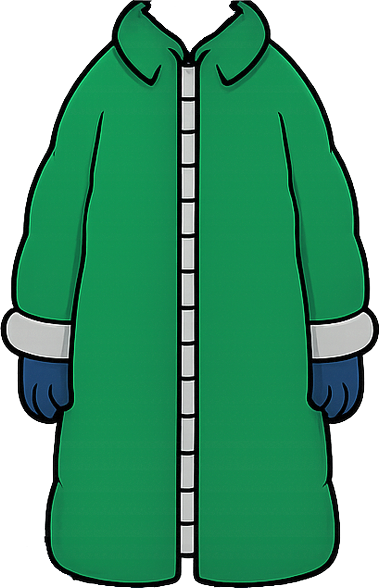
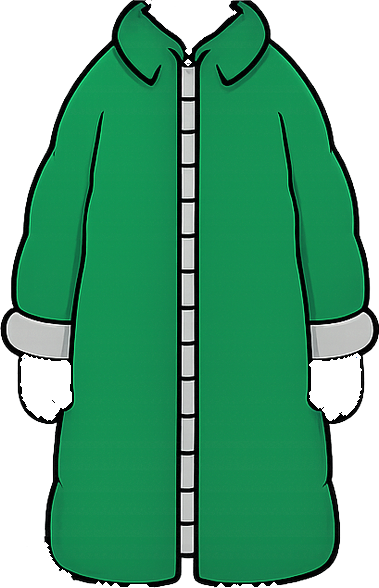
feat: donut season wheel, maple leaf, fix coat/shirt hand artifacts, calibrate cap/shorts/coat

diff --git a/src/App.tsx b/src/App.tsx
@@ -229,7 +229,7 @@ const ITEMS: ClothingItem[] = [
     thumbnail: layerShorts,
     closetThumbnail: closetShorts,
     closetHeight: 'calc(551px * 0.22)',
-    defaultAdjustment: { x: 4, y: 55, scale: 0.85, rotate: 0 },
+    defaultAdjustment: { x: 9, y: 96, scale: 0.85, rotate: 0 },
   },
   // Baseball cap — head slot
   {
@@ -241,7 +241,7 @@ const ITEMS: ClothingItem[] = [
     thumbnail: layerCap,
     closetThumbnail: closetCap,
     closetHeight: 'calc(551px * 0.15)',
-    defaultAdjustment: { x: 40, y: -42, scale: 1.15, rotate: 0 },
+    defaultAdjustment: { x: 30, y: -26, scale: 1.15, rotate: 0 },
   },
   // Winter coat — torso slot
   {
@@ -253,7 +253,7 @@ const ITEMS: ClothingItem[] = [
     thumbnail: layerCoatWinter,
     closetThumbnail: closetCoatWinter,
     closetHeight: 'calc(551px * 0.30)',
-    defaultAdjustment: { x: 13, y: 6, scale: 1.10, rotate: 0 },
+    defaultAdjustment: { x: 13, y: 32, scale: 1.10, rotate: 0 },
   },
 ]
 
@@ -1196,9 +1196,9 @@ type Season = 'summer' | 'autumn' | 'night'
 
 // ── Season Wheel ───────────────────────────────────────────────────────────────
 
-function SunIcon() {
+function SunIcon({ size = 22 }: { size?: number }) {
   return (
-    <svg width="22" height="22" viewBox="0 0 24 24">
+    <svg width={size} height={size} viewBox="0 0 24 24">
       <circle cx="12" cy="12" r="5" fill="#FFD700" />
       {[0, 45, 90, 135, 180, 225, 270, 315].map(deg => (
         <line
@@ -1216,21 +1216,25 @@ function SunIcon() {
   )
 }
 
-function LeafIcon() {
+function LeafIcon({ size = 22 }: { size?: number }) {
   return (
-    <svg width="22" height="22" viewBox="0 0 24 24">
-      <path d="M12 3 C6 3 3 8 3 13 C3 18 7 21 12 21 C17 21 21 18 21 13 C21 8 18 3 12 3 Z" fill="#E8640A" />
-      <path d="M7 18 C8 14 10 10 12 3" stroke="#C0440A" strokeWidth="1.5" fill="none" strokeLinecap="round" />
-      <path d="M12 3 C14 8 16 13 16 18" stroke="#C0440A" strokeWidth="1" fill="none" strokeLinecap="round" />
-      <path d="M9 11 C10 12 14 12 15 11" stroke="#C0440A" strokeWidth="1" fill="none" strokeLinecap="round" />
-      <path d="M12 21 L12 23" stroke="#8B4513" strokeWidth="2" strokeLinecap="round" />
+    <svg width={size} height={size} viewBox="0 0 24 24">
+      {/* Maple leaf shape */}
+      <path d="M12 2 L13.5 6 L17 5 L15 8.5 L19 9 L16 11 L18 14.5 L14.5 13 L14 17 L12 15 L10 17 L9.5 13 L6 14.5 L8 11 L5 9 L9 8.5 L7 5 L10.5 6 Z"
+        fill="#D2580A" />
+      {/* Stem */}
+      <line x1="12" y1="17" x2="12" y2="22" stroke="#8B4513" strokeWidth="1.8" strokeLinecap="round"/>
+      {/* Vein highlights */}
+      <line x1="12" y1="15" x2="8" y2="11" stroke="#E87020" strokeWidth="0.8" opacity="0.6"/>
+      <line x1="12" y1="15" x2="16" y2="11" stroke="#E87020" strokeWidth="0.8" opacity="0.6"/>
+      <line x1="12" y1="10" x2="12" y2="3" stroke="#E87020" strokeWidth="0.8" opacity="0.6"/>
     </svg>
   )
 }
 
-function MoonIcon() {
+function MoonIcon({ size = 22 }: { size?: number }) {
   return (
-    <svg width="22" height="22" viewBox="0 0 24 24">
+    <svg width={size} height={size} viewBox="0 0 24 24">
       <path d="M21 12.79A9 9 0 1 1 11.21 3 7 7 0 0 0 21 12.79z" fill="#C8D8FF" />
       <circle cx="16" cy="8" r="1" fill="white" opacity={0.6} />
       <circle cx="14" cy="14" r="0.7" fill="white" opacity={0.5} />
@@ -1240,61 +1244,65 @@ function MoonIcon() {
 
 const SEASON_COLORS: Record<Season, string> = {
   summer: '#FFD700',
-  autumn: '#E8640A',
-  night:  '#C8D8FF',
+  autumn: '#D2580A',
+  night:  '#8BB8FF',
 }
 
-interface SeasonBtnProps {
-  season: Season
-  current: Season
-  icon: React.ReactNode
-  onClick: (s: Season) => void
+const DONUT_R = 38   // ring radius
+const BTN_R = 14     // icon button radius
+
+// Positions: summer at top (-90°), autumn at bottom-left (150°), night at bottom-right (30°)
+const SEASON_POSITIONS: Record<Season, { angle: number }> = {
+  summer: { angle: -90 },
+  autumn: { angle: 150 },
+  night:  { angle: 30 },
 }
 
-function SeasonBtn({ season, current, icon, onClick }: SeasonBtnProps) {
-  const isActive = season === current
+function SeasonWheel({ season, onSelect }: { season: Season; onSelect: (s: Season) => void }) {
+  const size = (DONUT_R + BTN_R + 6) * 2
+  const cx = size / 2
+  const cy = size / 2
+
   return (
-    <button
-      onClick={() => onClick(season)}
-      title={season.charAt(0).toUpperCase() + season.slice(1)}
-      style={{
-        width: 36,
-        height: 36,
-        borderRadius: '50%',
-        background: isActive ? 'rgba(255,255,255,0.25)' : 'rgba(0,0,0,0.5)',
-        border: isActive ? `2px solid ${SEASON_COLORS[season]}` : '2px solid transparent',
-        backdropFilter: 'blur(4px)',
-        display: 'flex',
-        alignItems: 'center',
-        justifyContent: 'center',
-        cursor: 'pointer',
-        padding: 0,
-        transition: 'background 0.2s, border-color 0.2s',
-        flexShrink: 0,
-      }}
-    >
-      {icon}
-    </button>
-  )
-}
+    <div style={{ position: 'absolute', bottom: 16, left: 16, zIndex: 20 }}>
+      <svg width={size} height={size}>
+        {/* Donut ring */}
+        <circle cx={cx} cy={cy} r={DONUT_R} fill="none"
+          stroke="rgba(255,255,255,0.15)" strokeWidth="3" />
 
-interface SeasonWheelProps {
-  season: Season
-  onSelect: (s: Season) => void
-}
+        {/* Season buttons on the ring */}
+        {(Object.entries(SEASON_POSITIONS) as [Season, { angle: number }][]).map(([s, { angle }]) => {
+          const rad = (angle * Math.PI) / 180
+          const bx = cx + DONUT_R * Math.cos(rad)
+          const by = cy + DONUT_R * Math.sin(rad)
+          const active = season === s
+          const color = SEASON_COLORS[s]
+          return (
+            <g key={s} onClick={() => onSelect(s)} style={{ cursor: 'pointer' }}>
+              <circle cx={bx} cy={by} r={BTN_R}
+                fill={active ? 'rgba(255,255,255,0.25)' : 'rgba(0,0,0,0.55)'}
+                stroke={active ? color : 'rgba(255,255,255,0.2)'}
+                strokeWidth={active ? 2.5 : 1}
+              />
+              <foreignObject x={bx - 11} y={by - 11} width={22} height={22}
+                style={{ pointerEvents: 'none' }}>
+                <div style={{ display: 'flex', alignItems: 'center', justifyContent: 'center', width: 22, height: 22, opacity: active ? 1 : 0.6 }}>
+                  {s === 'summer' ? <SunIcon /> : s === 'autumn' ? <LeafIcon /> : <MoonIcon />}
+                </div>
+              </foreignObject>
+            </g>
+          )
+        })}
 
-function SeasonWheel({ season, onSelect }: SeasonWheelProps) {
-  return (
-    <div style={{ position: 'absolute', bottom: 20, left: 20, zIndex: 20 }}>
-      {/* Top button: summer */}
-      <div style={{ display: 'flex', justifyContent: 'center', marginBottom: 4 }}>
-        <SeasonBtn season="summer" current={season} onClick={onSelect} icon={<SunIcon />} />
-      </div>
-      {/* Bottom row: autumn (left), night (right) */}
-      <div style={{ display: 'flex', gap: 4 }}>
-        <SeasonBtn season="autumn" current={season} onClick={onSelect} icon={<LeafIcon />} />
-        <SeasonBtn season="night"  current={season} onClick={onSelect} icon={<MoonIcon />} />
-      </div>
+        {/* Active season indicator in center */}
+        <circle cx={cx} cy={cy} r={10}
+          fill="rgba(0,0,0,0.4)" stroke="rgba(255,255,255,0.1)" strokeWidth="1" />
+        <foreignObject x={cx - 9} y={cy - 9} width={18} height={18} style={{ pointerEvents: 'none' }}>
+          <div style={{ display: 'flex', alignItems: 'center', justifyContent: 'center', width: 18, height: 18 }}>
+            {season === 'summer' ? <SunIcon size={14} /> : season === 'autumn' ? <LeafIcon size={14} /> : <MoonIcon size={14} />}
+          </div>
+        </foreignObject>
+      </svg>
     </div>
   )
 }
